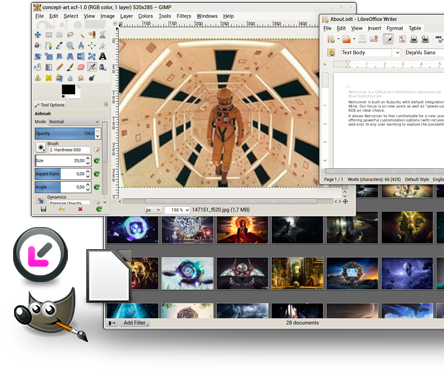
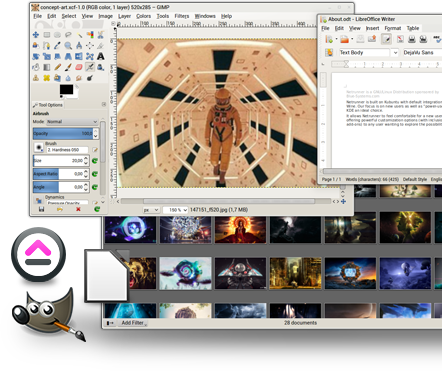
Updated for Netrunner 15

diff --git a/slideshows/netrunner/slides/link/base.css b/slideshows/netrunner/slides/link/base.css
@@ -1,6 +1,15 @@
 /*****************************************************************
 ****                                                          ****
-****  Last update Wed 14, May2014. for Netrunner 14 Frontier  ****
+****  Last update Wed 18, Dec 2015. For Netrunner 15 XOXO     ****
+****                                                          ****
+******************************************************************
+****                                                          ****
+****  Changes:                                                ****
+****  - background changed from png to jpg                    ****
+****  - background left side area matches installer           ****
+****    active button color                                   ****
+****  - changed welcome slide picture (neutral                ****
+****    silver wallpaper)                                     ****
 ****                                                          ****
 *****************************************************************/
 
@@ -27,7 +36,7 @@ a {
   width: 760px;
   height: 495px;
   overflow: hidden;
-  background-image: url('background.png');
+  background-image: url('background.jpg');
   background-repeat: no-repeat;
   background-position: top left;
   /* background-color:#ffffff; */

diff --git a/slideshows/netrunner/slides/2-customize.html b/slideshows/netrunner/slides/2-customize.html
@@ -5,9 +5,9 @@
 
 <div class="content">
 	<ul>
-	    <li>KDE Plasma is very easy to customize.</li>
+	    <li>KDE Plasma 5 desktop - New generation is very easy to customize.</li>
 	    <li>It offers many options in the simplified System Settings.</li>
-	    <li>Choose one of the themes preinstalled or get new themes and decorations online.</li>
+	    <li>Choose one of the pre-installed themes or get new themes and decorations online.</li>
 	</ul>
 </div>
 

diff --git a/slideshows/netrunner/slides/5-entertained.html b/slideshows/netrunner/slides/5-entertained.html
@@ -6,7 +6,7 @@
 <div class="content">
 	<ul>
 	    <li>Netrunner is ready to play most video and sound formats.</li>
-	    <li>With Clementine you can listen to your local collection and internet music services.</li>
+	    <li>With Gmusicbrowser you can listen to your local collection and internet music services.</li>
 	    <li>Use VLC media player to watch movies or convert them into a different format.</li>
 	</ul>
 </div>

diff --git a/slideshows/netrunner/slides/1-welcome.html b/slideshows/netrunner/slides/1-welcome.html
@@ -5,7 +5,7 @@
 
 <div class="content">
 	<ul>
-		<li>Welcome to Netrunner 14 - Frontier.</li>
+		<li>Welcome to Netrunner 15 &ndash; Prometheus.</li>
 		<li>Netrunner is based on free software.</li>
 		<li>During the installation, this slideshow will provide a quick introduction.</li>
 	</ul>
